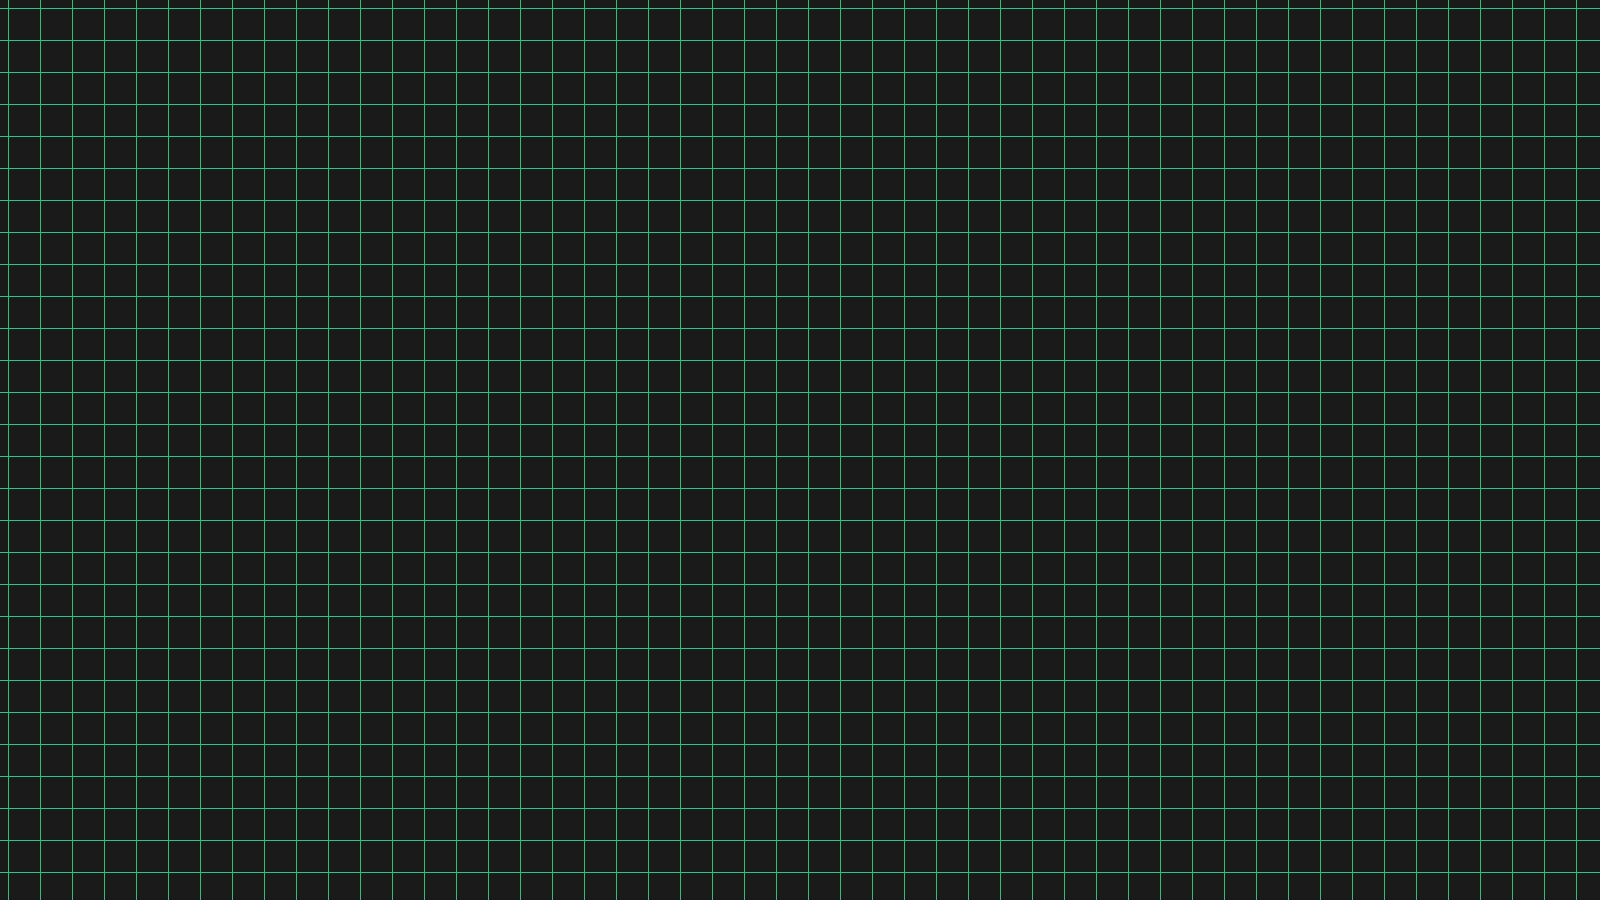
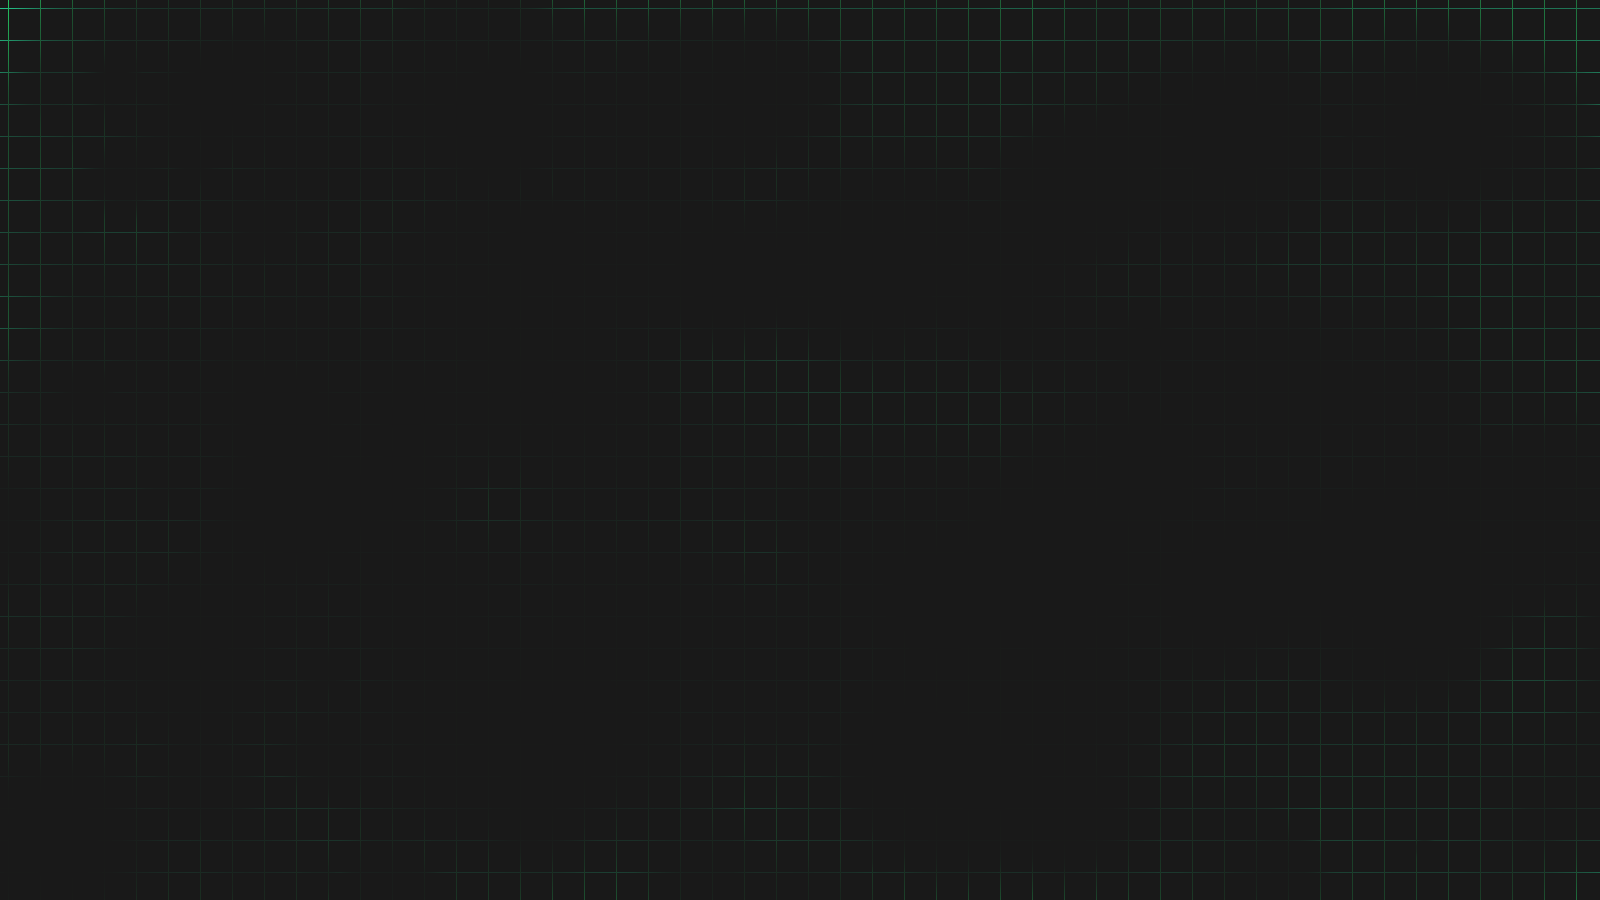
Added Playermovement and Platforms

diff --git a/src/platformer/states/game/Player.java b/src/platformer/states/game/Player.java
@@ -1,0 +1,101 @@
+package platformer.states.game;
+
+import java.awt.Color;
+
+import com.sun.glass.events.KeyEvent;
+
+import graphics.Sprite;
+import gui.GraphicsHelper;
+import in.Input;
+import stateBased.StateBasedGame;
+import util.vectors.Vector2f;
+import util.vectors.Vector2i;
+
+public class Player {
+
+	private static float gravity = 1f, power = 25f, sliding = 3f, friction = 0.5f;
+
+	String dirString;
+	Vector2f pos, dir;
+	Sprite sprite;
+	private boolean onPlatform;
+	private int time;
+
+	public Player(Vector2i spawn) {
+		pos = new Vector2f(spawn);
+		dir = new Vector2f(0, 0);
+		sprite = new Sprite("/game/dude.png");
+	}
+
+	public boolean update(StateBasedGame stateBasedGame, Input input, Level level) {
+		time++;
+		onPlatform = !move(level, dir);
+
+		if (!onPlatform) {
+			dir.y += gravity;
+			if (input.keyPressed[KeyEvent.VK_D]) {
+				dir.x += sliding/2;
+			}
+			if (input.keyPressed[KeyEvent.VK_A]) {
+				dir.x -= sliding/2;
+			}
+		} else {
+			dir.y = 0;
+			dir.x *= friction;
+			if (input.keyPressed[KeyEvent.VK_W]) {
+				dir.y = -power;
+			}
+			if (input.keyPressed[KeyEvent.VK_D]) {
+				dir.x += sliding;
+			}
+			if (input.keyPressed[KeyEvent.VK_A]) {
+				dir.x -= sliding;
+			}
+		}
+
+		if (time % 10 == 0) {
+			dirString = dir.toString();
+		}
+		
+		return (pos.y > level.height);
+
+	}
+
+	private boolean move(Level level, Vector2f moveDir) {
+		float length = moveDir.length();
+		if (length >= 10) {
+			move(level, moveDir.copy().mult(0.5f));
+			return move(level, moveDir.copy().mult(0.5f));
+		}
+		if (moveDir.x != 0 && moveDir.y != 0) {
+			move(level, new Vector2f(moveDir.x, 0));
+			return move(level, new Vector2f(0, moveDir.y));
+		}
+		Vector2f newPos = pos.copy().add(moveDir);
+		for (Platform p : level.getPlatforms()) {
+			if (
+					newPos.x < p.getPos().x + p.getWidth() &&
+					newPos.x + sprite.getWidth() > p.getPos().x &&
+					newPos.y < p.getPos().y + p.getHeight() &&
+					sprite.getHeight() + newPos.y > p.getPos().y) {
+				// collision detected!
+				return false;
+			}
+		}
+		pos = newPos;
+		return true;
+	}
+
+	public void render(GraphicsHelper gh) {
+		gh.setColor(Color.RED);
+		// gh.drawRect(x, y, w, h);
+		gh.drawImage(sprite, pos.toVector2i());
+
+		gh.setColor(Color.WHITE);
+		gh.drawStringRight(dirString, 10, 100, 20);
+		gh.drawStringRight(((onPlatform) ? "Landed" : "Flying"), 10, 150, 20);
+		
+//		gh.drawRect((int) pos.x, (int) pos.y, sprite.getWidth(), sprite.getHeight());
+	}
+
+}

diff --git a/src/platformer/states/game/Level.java b/src/platformer/states/game/Level.java
@@ -1,0 +1,75 @@
+package platformer.states.game;
+
+import java.awt.Color;
+
+import platformer.Main;
+import gui.GraphicsHelper;
+import util.vectors.Vector2i;
+
+public class Level {
+
+	
+	int width, height, topPadding;
+	float deltaTime, time;
+	Vector2i spawnpoint;
+
+	Platform current, next;
+
+	public Level(int width, int height) {
+		this.width = width;
+		this.height = height;
+
+		current = addPlatform();
+		next = addPlatform();
+		spawnpoint = new Vector2i(current.getWidth()/2, -Platform.padding.x).add(current.getPos());
+
+		deltaTime = 100;
+		time = deltaTime;
+		
+		topPadding = (int) (height/2.5f);
+	}
+
+	public Vector2i getSpawn() {
+		return spawnpoint;
+	}
+
+	public void update() {
+		time--;
+		if (time <= 0) {
+			deltaTime-=0.5;
+			time = deltaTime;
+			current = next;
+			next = addPlatform();
+			}
+	}
+
+	private Platform addPlatform() {
+		Vector2i pos = new Vector2i(0, 0);
+		if (current != null) {
+			Vector2i cPos = current.getPos();
+			do {
+				pos = new Vector2i(Main.rand.nextInt(width - 2 * Platform.padding.x) + Platform.padding.x, Main.rand.nextInt(height - topPadding - Platform.padding.y) + topPadding);
+			} while (Math.abs(pos.x - cPos.x) < Platform.padding.x || Math.abs(pos.y - cPos.y) < Platform.padding.y);
+		} else {
+			pos = new Vector2i(Main.rand.nextInt(width - 2 * Platform.padding.x) + Platform.padding.x, Main.rand.nextInt(height - topPadding - Platform.padding.y) + topPadding);
+		}
+		return new Platform(pos);
+	}
+
+	public void render(GraphicsHelper gh) {
+		float alpha = time / (float) deltaTime;
+		gh.setAlpha(alpha);
+		current.render(gh);
+		gh.setAlpha(1 - alpha);
+		next.render(gh);
+		gh.setAlpha(1);
+		
+		gh.setColor(Color.WHITE);
+		gh.drawStringRight(time + " (" + deltaTime + ")", 10, 200, 20);
+	}
+
+	public Platform[] getPlatforms() {
+		return new Platform[] {current, next};
+	}
+
+}

diff --git a/src/platformer/states/game/Game.java b/src/platformer/states/game/Game.java
@@ -3,27 +3,68 @@ package platformer.states.game;
 import graphics.Sprite;
 import gui.GraphicsHelper;
 import in.Input;
+import platformer.Main;
 import stateBased.GameState;
 import stateBased.StateBasedGame;
+import util.vectors.Vector2f;
 
 public class Game extends GameState {
-	
-	Sprite bg;
+
+	Sprite bg, mask;
+	int bgw, bgh;
+	Vector2f bgDir;
+	Player player;
+	Level level;
 
 	@Override
 	public void render(StateBasedGame game, GraphicsHelper gh) {
+		renderBack(game, gh);
+		level.render(gh);
+		player.render(gh);
+	}
+
+	private void renderBack(StateBasedGame game, GraphicsHelper gh) {
 		gh.drawImage(bg, 0, 0, game.getWidth(), game.getHeight());
+
+		bgw += bgDir.x;
+		bgDir.x += Main.rand.nextFloat() - 0.5f;
+		if (bgw > 3 * game.getWidth())
+			bgDir.x -= 0.5;
+		else if (bgw < 2 * game.getWidth())
+			bgDir.x += 0.5;
+		
+		bgh += bgDir.y;
+		bgDir.y += Main.rand.nextFloat() - 0.5f;
+		if (bgh > 3 * game.getHeight())
+			bgDir.y -= 0.5;
+		else if (bgh < 2 * game.getHeight())
+			bgDir.y += 0.5;
+
+		gh.drawImage(mask, 0, 0, bgw, bgh);
 	}
 
 	@Override
 	public void update(StateBasedGame stateBasedGame, Input input) {
-		// TODO Auto-generated method stub
+		level.update();
+		if (player.update(stateBasedGame, input, level)) {
+			restart();
+		}
+	}
+
+	private void restart() {
+		level = new Level(Main.WIDTH, Main.HEIGHT);
+		player = new Player(level.getSpawn());
 		
 	}
 
 	@Override
 	public void init(StateBasedGame game) {
 		bg = new Sprite("/game/bg.png");
+		bgw = (int) (2.5 * game.getWidth());
+		bgh= (int) (2.5 * game.getHeight());
+		bgDir = new Vector2f(0, 0);
+		mask = new Sprite("/game/mask.png");
+		restart();
 	}
 
 }

diff --git a/src/platformer/states/game/Platform.java b/src/platformer/states/game/Platform.java
@@ -1,0 +1,41 @@
+package platformer.states.game;
+
+import graphics.Sprite;
+import gui.GraphicsHelper;
+import platformer.Main;
+import util.vectors.Vector2i;
+
+public class Platform {
+	
+	private static Sprite platform = new Sprite("/game/platform.png");
+	private static int maxWidth = 300;
+	public static Vector2i padding = new Vector2i(maxWidth, maxWidth / 4);
+	
+	private Sprite sprite;
+	private Vector2i pos;
+	private int width, height;
+	
+	public Platform(Vector2i pos) {
+		this.pos = pos;
+		width = Main.rand.nextInt(maxWidth/2) + maxWidth/2;
+		sprite = new Sprite(platform.getScaled(width / (float) platform.getWidth()));
+		height = sprite.getHeight();
+	}
+
+	public void render(GraphicsHelper gh) {
+		gh.drawImage(sprite, pos);
+	}
+
+	public Vector2i getPos() {
+		return pos;
+	}
+
+	public int getWidth() {
+		return width;
+	}
+
+	public int getHeight() {
+		return height;
+	}
+
+}

diff --git a/src/platformer/Main.java b/src/platformer/Main.java
@@ -3,6 +3,7 @@ package platformer;
 import graphics.Sprite;
 
 import java.awt.Font;
+import java.util.Random;
 
 import platformer.states.Loading;
 import platformer.states.game.Game;
@@ -13,9 +14,12 @@ import stateBased.StateBasedGame;
 
 public class Main extends StateBasedGame {
 	
+	public static Random rand = new Random();
+
+	
 	private static final String TITLE = "Sci-fi Platformer";
 	
-	private static final int WIDTH = 1600, HEIGHT = 900;
+	public static final int WIDTH = 1600, HEIGHT = 900;
 	
 	public static final int loadingID = 0, gameID = 1, menuID = 2, helpID = 3;
 

diff --git a/src/platformer/states/Loading.java b/src/platformer/states/Loading.java
@@ -18,7 +18,7 @@ public class Loading extends GameState {
 	private String loadingObject; 
 	
 	/**
-	 * Monitors, if we have rendered twice in order to show the screen first and then load
+	 * Checks, if we have rendered twice in order to show the screen first and then load
 	 */
 	private boolean renderOne, renderTwo;
 
